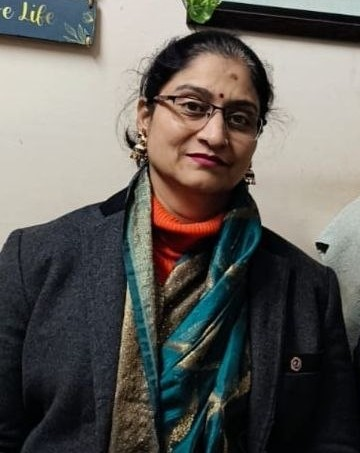
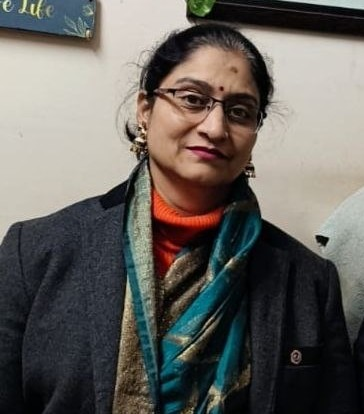
touchups

diff --git a/index.html b/index.html
@@ -159,14 +159,14 @@
       <div class="contact-header">
         <span class="section-tag">Contact Us</span>
         <h2 class="section-title">Let's Get Your Child Started Today</h2>
-        <p class="section-sub">We offer zero-cost demo classes to help you map your child's academic journey accurately.</p>
+        <p class="section-sub">We offer demo classes to help you map your child's academic journey accurately.</p>
       </div>
 
       <div class="contact-grid">
         <div class="contact-item">
           <div class="contact-icon">📍</div>
           <div>
-            <h4>Our Institute Location</h4>
+            <h4>Location</h4>
             <p>D-20 North Part, Sai Shobha, Uma Path, Ram Nagar, Sodala, Jaipur</p>
           </div>
         </div>
@@ -174,16 +174,16 @@
         <a href="tel:+91987705861" class="contact-item linkable">
           <div class="contact-icon">📞</div>
           <div>
-            <h4>Call Helpline</h4>
-            <p>+91 987705861</p>
+            <h4>Call</h4>
+            <p>+91 9887705861</p>
           </div>
         </a>
 
         <a href="mailto:hello@abcclasses.in" class="contact-item linkable">
           <div class="contact-icon">✉</div>
           <div>
-            <h4>Email Support</h4>
-            <p>hello@abcclasses.in</p>
+            <h4>Email</h4>
+            <p>abcclasses@gmail.com</p>
           </div>
         </a>
       </div>
